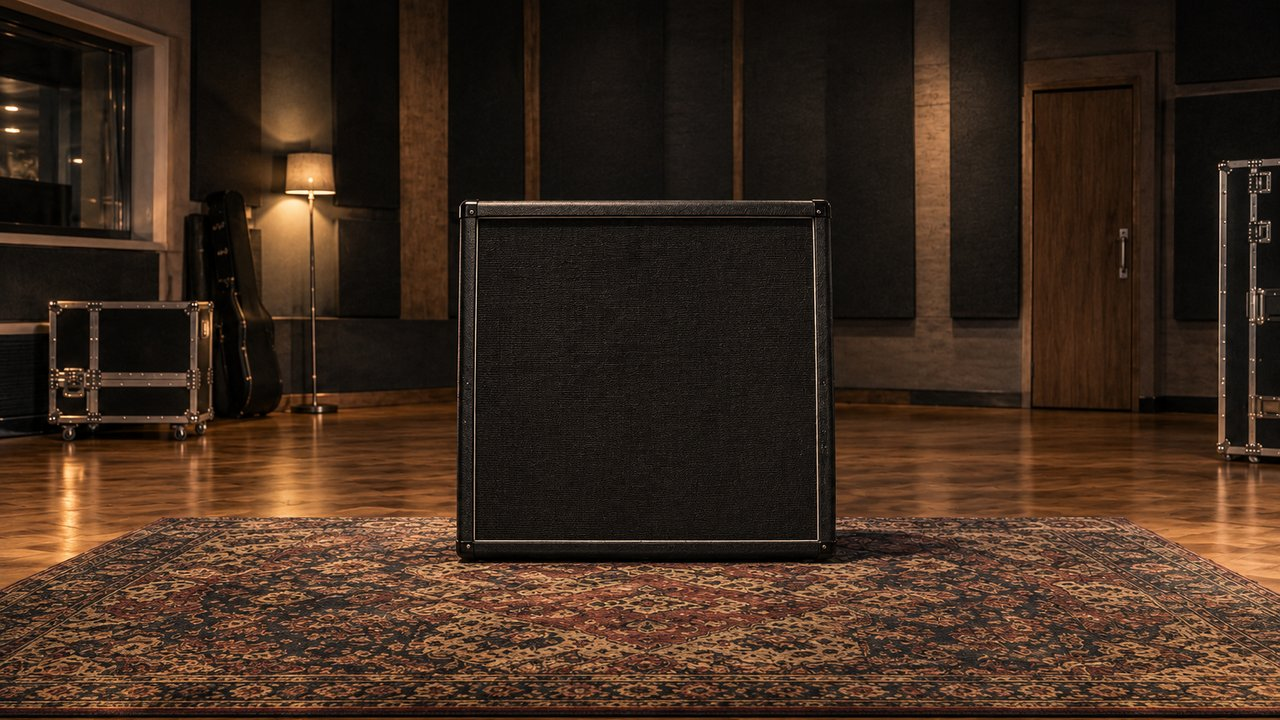
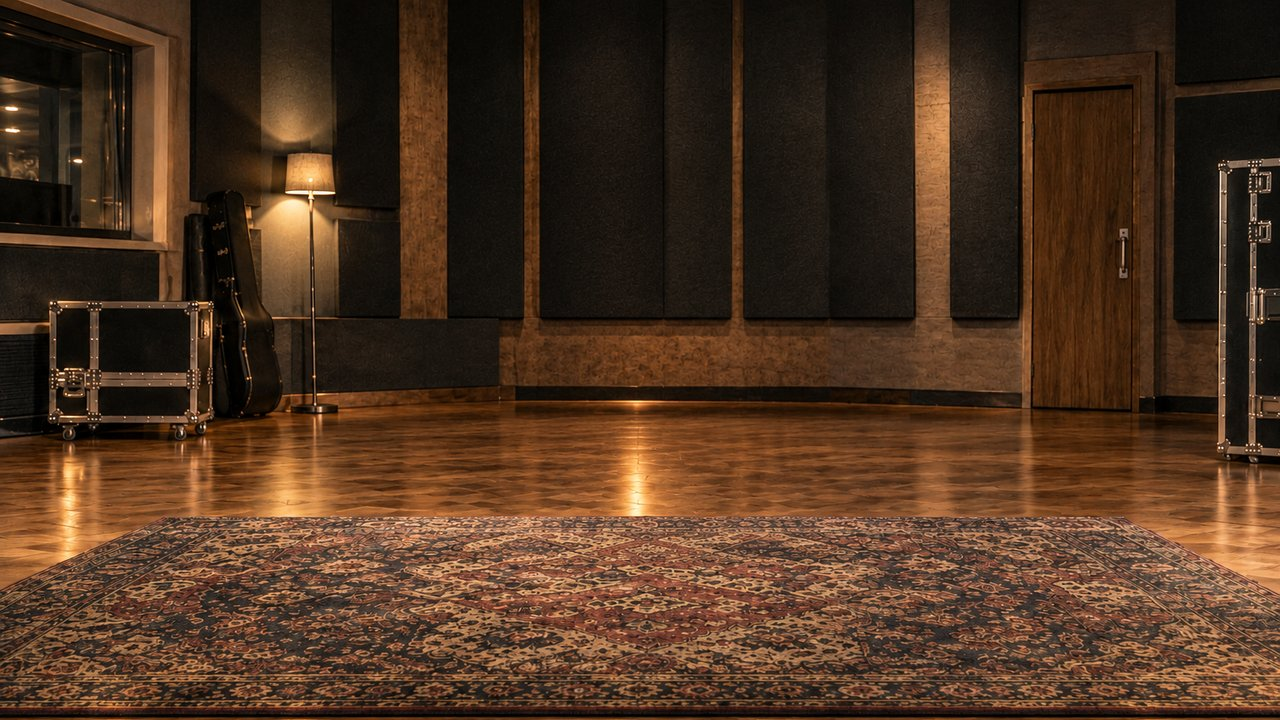
Amp House: whole amp always fits (side walls extend), stand beside the cab, CAB picker sizes the rendered cab (1x12 small ... 8x10 tall), readable amp list, opaque cab/stand/mic

diff --git a/Source/EffectEditors.cpp b/Source/EffectEditors.cpp
@@ -1279,6 +1279,7 @@ public:
     {
         heads = juce::ImageCache::getFromMemory (AmpData::amp_heads_jpg, AmpData::amp_heads_jpgSize);
         room = juce::ImageCache::getFromMemory (AmpData::amp_studio_jpg, AmpData::amp_studio_jpgSize);
+        cabImg = juce::ImageCache::getFromMemory (AmpData::amp_cab_jpg, AmpData::amp_cab_jpgSize);
         stand = juce::ImageCache::getFromMemory (AmpData::amp_stand_png, AmpData::amp_stand_pngSize);
         boom = juce::ImageCache::getFromMemory (AmpData::amp_boom_png, AmpData::amp_boom_pngSize);
         const auto sheet = juce::ImageCache::getFromMemory (AmpData::amp_mics_png, AmpData::amp_mics_pngSize);
@@ -1424,17 +1425,34 @@ private:
     juce::Rectangle<float> topButton (int b) const { const auto s = sceneArea(); return { s.getRight() - 3.0f * 170.0f + (float) b * 170.0f, s.getY() + 6.0f, 164.0f, 22.0f }; }
     static constexpr float cabX = 457.0f, cabY = 200.0f, cabW = 376.0f, cabH = 360.0f;   // the cab inside the rendered studio (1280x720)
     float headAspect() const { const auto src = headSrc (model()); return (float) src.getHeight() / (float) src.getWidth(); }
+    juce::Point<float> cabScale() const   // the CAB picker sizes the rendered cab: 1x12 small, 2x12 wide + short, 4x12 full, 8x10 tall
+    {
+        switch (juce::roundToInt (grid.liveValueOf ("cab")))
+        {
+            case 0: case 5: return { 0.56f, 0.56f };
+            case 1: return { 0.96f, 0.6f };
+            case 4: return { 0.9f, 1.28f };
+            default: return { 1.0f, 1.0f };
+        }
+    }
+    float headW (float fullCabW) const { return juce::jmax (fullCabW * cabScale().x * 0.96f, fullCabW * 0.72f); }
     juce::Rectangle<float> plateRect() const   // the 3D studio render, scaled so the amp stands up close and fills the view
     {
         const auto s = sceneArea();
-        const float fit = s.getHeight() * 0.86f / (cabH + cabW * 0.96f * headAspect());
-        const float sc = juce::jmax (fit, s.getWidth() / 1280.0f);
+        const float fit = s.getHeight() * 0.86f / (cabH * cabScale().y + headW (cabW) * headAspect());
+        const float sc = fit;   // the whole amp always fits; a wider view just shows more of the room's walls
         return { s.getCentreX() - (cabX + cabW * 0.5f) * sc, s.getBottom() - s.getHeight() * 0.05f - (cabY + cabH) * sc, 1280.0f * sc, 720.0f * sc };
     }
-    juce::Rectangle<float> cabRect() const { const auto r = plateRect(); const float k = r.getWidth() / 1280.0f; return { r.getX() + cabX * k, r.getY() + cabY * k, cabW * k, cabH * k }; }
+    juce::Rectangle<float> cabFull() const { const auto r = plateRect(); const float k = r.getWidth() / 1280.0f; return { r.getX() + cabX * k, r.getY() + cabY * k, cabW * k, cabH * k }; }
+    juce::Rectangle<float> cabRect() const
+    {
+        const auto f = cabFull(); const auto sc = cabScale();
+        const float w = f.getWidth() * sc.x, h = f.getHeight() * sc.y;
+        return { f.getCentreX() - w * 0.5f, f.getBottom() - h, w, h };
+    }
     juce::Rectangle<float> headRect() const
     {
-        const auto c = cabRect(); const float w = c.getWidth() * 0.96f, h = w * headAspect();
+        const auto c = cabRect(); const float w = headW (cabFull().getWidth()), h = w * headAspect();
         return { c.getCentreX() - w * 0.5f, c.getY() - h + 2.0f, w, h };
     }
     juce::Point<float> knobCentre (int k) const
@@ -1458,11 +1476,13 @@ private:
         MicGeo m; const auto c = cabRect(); const auto s = sceneArea();
         const float dn = juce::jlimit (0.0f, 1.0f, (grid.liveValueOf ("micdist") - 0.1f) / 5.9f);
         m.side = grid.liveValueOf ("micx") < 0.5f ? -1.0f : 1.0f;
-        m.len = c.getWidth() * (0.24f + 0.16f * dn);
+        m.len = c.getWidth() * (0.28f + 0.16f * dn);
         m.cap = micPoint() + juce::Point<float> (0.0f, c.getHeight() * 0.10f * dn);
         m.tilt = m.side * juce::degreesToRadians (grid.liveValueOf ("micangle")) * 0.6f;
         m.tail = m.cap + juce::Point<float> (m.side * std::cos (m.tilt), std::sin (m.tilt) * m.side) * m.len;
         m.poleX = m.tail.x + m.side * c.getWidth() * (0.16f + 0.12f * dn);
+        const float beside = c.getWidth() * (0.12f + 0.10f * dn);   // the stand stands beside the cab (black on black would vanish)
+        m.poleX = m.side > 0 ? juce::jmax (m.poleX, c.getRight() + beside) : juce::jmin (m.poleX, c.getX() - beside);
         m.floorY = c.getBottom() + (s.getBottom() - c.getBottom()) * (0.12f + 0.8f * dn);
         m.topY = juce::jmin (m.tail.y - c.getHeight() * 0.14f, m.floorY - 60.0f);
         m.ps = (m.floorY - m.topY) / 700.0f;
@@ -1557,7 +1577,7 @@ private:
         {
             const auto r = juce::Rectangle<float> (a.getX(), a.getY() + rowH() * (float) i, a.getWidth(), rowH()).reduced (3, 1.5f);
             if (i == model()) { g.setColour (col::accent.withAlpha (0.85f)); g.fillRoundedRectangle (r, 3.0f); }
-            g.setColour (i == model() ? juce::Colours::white : col::text.withAlpha (0.8f));
+            g.setColour (i == model() ? juce::Colours::white : juce::Colour (0xffe6e6ea).withAlpha (0.8f));
             g.setFont (juce::FontOptions (juce::jmin (13.0f, rowH() * 0.6f), juce::Font::bold));
             g.drawFittedText (d != nullptr && i < (int) d->choices.size() ? juce::String (d->choices[(size_t) i]) : juce::String (i + 1), r.reduced (6, 0).toNearestInt(), juce::Justification::centredLeft, 1);
         }
@@ -1570,7 +1590,12 @@ private:
         if (room.isValid())
         {
             g.saveState(); g.reduceClipRegion (s.toNearestInt());
-            g.drawImage (room, plateRect(), juce::RectanglePlacement::stretchToFit);
+            const auto pr = plateRect();
+            if (pr.getX() > s.getX())   // wider than the render: continue its side walls
+                g.drawImage (room, (int) s.getX(), (int) pr.getY(), (int) std::ceil (pr.getX() - s.getX()) + 1, (int) pr.getHeight(), 0, 0, 90, 720);
+            if (pr.getRight() < s.getRight())
+                g.drawImage (room, (int) pr.getRight() - 1, (int) pr.getY(), (int) std::ceil (s.getRight() - pr.getRight()) + 1, (int) pr.getHeight(), 1190, 0, 90, 720);
+            g.drawImage (room, pr, juce::RectanglePlacement::stretchToFit);
             g.setColour (juce::Colour (tint[juce::jlimit (0, 4, rm)])); g.fillRect (s);
             if (rm == 2)   // vocal booth: foam wedges on the walls
             {
@@ -1589,6 +1614,12 @@ private:
     {
         auto s = sceneArea(); const int m = model(); const auto& L = looks[m];
         paintRoom (g, s);
+        {   // the rendered cab, sized by the CAB picker, with its contact shadow on the rug
+            const auto c = cabRect();
+            g.setColour (juce::Colour (0x70000000)); g.fillEllipse (c.getX() - c.getWidth() * 0.06f, c.getBottom() - c.getHeight() * 0.04f, c.getWidth() * 1.12f, c.getHeight() * 0.09f);
+            g.setOpacity (1.0f);   // drawImage takes the colour's alpha: the shadow's 0x70 made the cab see-through
+            if (cabImg.isValid()) g.drawImage (cabImg, c, juce::RectanglePlacement::stretchToFit);
+        }
         // head from the reference picture, our badge over the logo, our knobs on the panel
         const auto h = headRect();
         if (heads.isValid()) g.drawImage (heads, h.getX(), h.getY(), h.getWidth(), h.getHeight(), headSrc (m).getX(), headSrc (m).getY(), headSrc (m).getWidth(), headSrc (m).getHeight());
@@ -1647,6 +1678,7 @@ private:
         const auto m = micGeo();
         g.setColour (juce::Colour (0x50000000));   // contact shadow under the tripod
         g.fillEllipse (juce::Rectangle<float> (300.0f * m.ps, 34.0f * m.ps).withCentre ({ m.poleX, m.floorY - 6.0f * m.ps }));
+        g.setOpacity (1.0f);
         if (stand.isValid()) g.drawImageTransformed (stand, juce::AffineTransform::translation (-208.0f, -700.0f).scaled (m.ps).translated (m.poleX, m.floorY));
         if (boom.isValid())
         {
@@ -1691,7 +1723,7 @@ private:
                 if (type == 0) { g.setColour (c); g.drawRoundedRectangle (r.reduced (2), 5.0f, 1.2f); }
                 else { g.setColour (on ? c : c.withMultipliedSaturation (0.3f).withMultipliedBrightness (0.5f)); g.fillRoundedRectangle (r.reduced (2), 5.0f); }
                 const auto txt = c.getPerceivedBrightness() > 0.6f ? juce::Colours::black : juce::Colours::white;
-                g.setColour (type == 0 ? col::dim : txt); g.setFont (juce::FontOptions (type == 0 ? 18.0f : 12.0f, juce::Font::bold));
+                g.setColour (type == 0 ? juce::Colour (0xff9a9aa2) : txt); g.setFont (juce::FontOptions (type == 0 ? 18.0f : 12.0f, juce::Font::bold));
                 g.drawFittedText (pedalTag[type], r.withHeight (r.getHeight() * 0.55f).toNearestInt(), juce::Justification::centred, 1);
                 if (type > 0)
                 {
@@ -1702,7 +1734,7 @@ private:
             else
             {
                 g.setColour (juce::Colour (0xff23262d)); g.fillRoundedRectangle (r.reduced (2), 5.0f);
-                g.setColour (col::text); g.setFont (juce::FontOptions (12.0f, juce::Font::bold));
+                g.setColour (juce::Colour (0xffe6e6ea)); g.setFont (juce::FontOptions (12.0f, juce::Font::bold));
                 g.drawFittedText (fixedTag[n], r.toNearestInt(), juce::Justification::centred, 1);
             }
             if (n == selected) { g.setColour (col::accent); g.drawRoundedRectangle (r.reduced (1), 6.0f, 2.0f); }
@@ -1726,14 +1758,14 @@ private:
             juce::String nm = d->name.fromFirstOccurrenceOf (" ", false, false);
             if (d->id.length() == 3 && (d->id[0] == 's' || d->id[0] == 'p')) nm = d->id.endsWithChar ('a') ? "DRIVE" : d->id.endsWithChar ('b') ? "TONE" : "LEVEL";
             else nm = d->name;
-            g.setColour (col::dim); g.setFont (juce::FontOptions (10.0f, juce::Font::bold));
+            g.setColour (juce::Colour (0xff9a9aa2)); g.setFont (juce::FontOptions (10.0f, juce::Font::bold));
             g.drawFittedText (nm.toUpperCase(), c.removeFromBottom (14).toNearestInt(), juce::Justification::centred, 1);
             if (! d->choices.empty() || d->id.endsWith ("on"))
             {
                 const auto b = c.withSizeKeepingCentre (c.getWidth(), 24.0f);
                 const bool tog = d->choices.empty();
                 g.setColour (tog && v > 0.5f ? col::accent : juce::Colour (0xff23262d)); g.fillRoundedRectangle (b, 4.0f);
-                g.setColour (col::text); g.setFont (juce::FontOptions (11.0f, juce::Font::bold));
+                g.setColour (juce::Colour (0xffe6e6ea)); g.setFont (juce::FontOptions (11.0f, juce::Font::bold));
                 g.drawFittedText (tog ? juce::String (v > 0.5f ? "ON" : "OFF") : grid.choiceOf (d->id), b.reduced (3, 0).toNearestInt(), juce::Justification::centred, 2);
                 continue;
             }
@@ -1743,12 +1775,12 @@ private:
             g.setColour (juce::Colour (0xff2c3038)); g.strokePath (bg, juce::PathStrokeType (3.0f));
             juce::Path fg; fg.addCentredArc (kc.x, kc.y, kr, kr, 0, a0, a1, true);
             g.setColour (i == insKnob ? juce::Colours::white : col::accent); g.strokePath (fg, juce::PathStrokeType (3.0f));
-            g.setColour (col::text); g.setFont (juce::FontOptions (10.0f, juce::Font::bold));
+            g.setColour (juce::Colour (0xffe6e6ea)); g.setFont (juce::FontOptions (10.0f, juce::Font::bold));
             g.drawFittedText (juce::String (v, std::abs (d->mx - d->mn) > 20 ? 0 : 1), juce::Rectangle<float> (kr * 2, 12).withCentre (kc).toNearestInt(), juce::Justification::centred, 1);
         }
     }
     void timerCallback() override { const auto k = grid.stateKey(); if (k != last) { last = k; repaint(); } }
-    ParamGrid& grid; juce::Image heads, room, stand, boom, mics[6]; juce::String last;
+    ParamGrid& grid; juce::Image heads, room, cabImg, stand, boom, mics[6]; juce::String last;
     int dragKnob = -1, dragNode = -1, insKnob = -1, selected = 7; float dragFrom = 0.0f; bool micDrag = false, standDrag = false; juce::Point<float> dropAt;
 };
 
